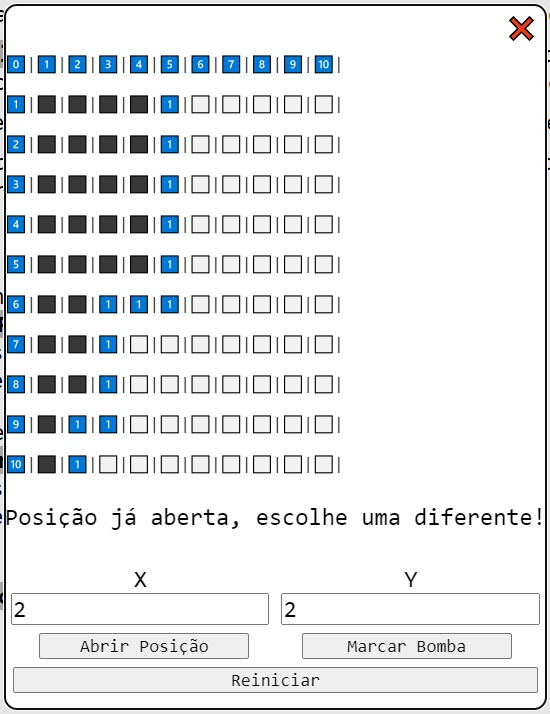
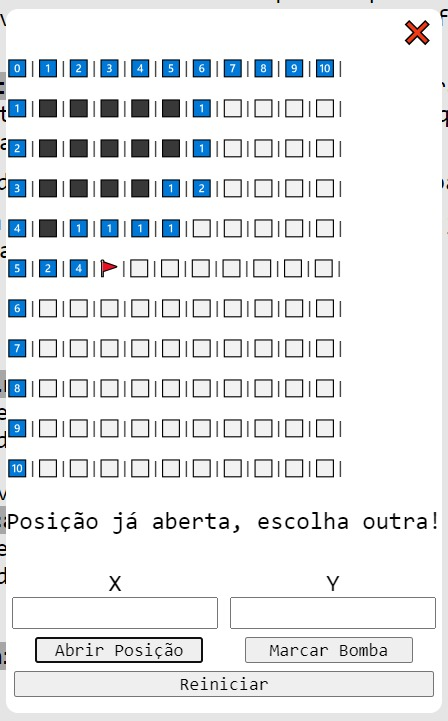
refactor(v1, v2): Centraliza mensagens do Javascript e melhora texto do HTML

Changed region(s): [[0.0, 0.0, 1.0, 1.0]]

diff --git a/v1/src/javascripts/jogo/core.js b/v1/src/javascripts/jogo/core.js
@@ -11,11 +11,11 @@ function abrirPosicao({ posicao, exibirLog, exibirCampo }) {
   };
 
   if (!ehPosicaoNoCampo(posicao)) {
-    return exibirLog('Posições escolhidas não estão no campo!');
+    return exibirLog(MENSAGENS.posicaoForaDoCampo);
   }
 
   if (ehPosicaoAberta(posicao)) {
-    return exibirLog('Posição já aberta, escolhe uma diferente!');
+    return exibirLog(MENSAGENS.posicaoJaAberta);
   }
 
   if (ehPosicaoDeBomba(posicao)) {
@@ -25,7 +25,7 @@ function abrirPosicao({ posicao, exibirLog, exibirCampo }) {
 
     exibirCampo(desenharCampo());
 
-    return exibirLog('Você perdeu! 💥');
+    return exibirLog(MENSAGENS.derrota);
   }
 
   posicoesAbertas.push(posicao);
@@ -81,15 +81,15 @@ function marcarComBandeira({ posicao, exibirLog, exibirCampo }) {
   };
 
   if (!ehPosicaoNoCampo(posicao)) {
-    return exibirLog('Posições escolhidas não estão no campo!');
+    return exibirLog(MENSAGENS.posicaoForaDoCampo);
   }
 
   if (ehPosicaoAberta(posicao)) {
-    return exibirLog('Posição já aberta, escolhe uma diferente!');
+    return exibirLog(MENSAGENS.posicaoJaAberta);
   }
 
   if (ehPosicaoDeBandeira(posicao)) {
-    return exibirLog('Posição já marcada, escolhe uma diferente!');
+    return exibirLog(MENSAGENS.posicaoJaMarcada);
   }
 
   posicoesBandeiras.push(posicao);
@@ -100,7 +100,7 @@ function marcarComBandeira({ posicao, exibirLog, exibirCampo }) {
 
 function verificarVitoria({ exibirLog }) {
   if (ehJogoFinalizado) {
-    return exibirLog(`Você ${ehVitoria ? 'venceu! 😄' : 'perdeu! 💥'}`)
+    return exibirLog(ehVitoria ? MENSAGENS.vitoria : MENSAGENS.derrota)
   }
 
   let totalDePosicoes = SETTINGS.campo.tamanhoX * SETTINGS.campo.tamanhoY;
@@ -112,7 +112,7 @@ function verificarVitoria({ exibirLog }) {
     ehJogoFinalizado = true;
     ehVitoria = true;
 
-    exibirLog('Você venceu! 😄');
+    exibirLog(MENSAGENS.vitoria);
   }
 }
 

diff --git a/v1/index.html b/v1/index.html
@@ -17,7 +17,7 @@
 
     <p>Este jogo foi desenvolvido em Javascript e é possível jogar com a ferramenta de desenvolvimento do navegador ou via interface com um emulador do console.</p>
 
-    <p>Aperte <code>F12</code> ou <code>Ctrl + Shift + I</code> para abri a ferramenta de desenvolvimento. Caso os atalhos não funcionem, verifique qual o correto para sua máquina e navegador.</p>
+    <p>Aperte <code>F12</code> ou <code>Ctrl + Shift + I</code> para abrir a ferramenta de desenvolvimento. Caso os atalhos não funcionem, verifique qual o correto para sua máquina e navegador.</p>
 
     <p>Com a ferramenta de desenvolimento aberta, vá na aba "Console".</p>
 
@@ -98,6 +98,7 @@
   </dialog>
 
   <script src="src/javascripts/settings.js"></script>
+  <script src="src/javascripts/mensagens.js"></script>
   <script src="src/javascripts/jogo/core.js"></script>
   <script src="src/javascripts/jogo/console.js"></script>
   <script src="src/javascripts/jogo/emulador.js"></script>

diff --git a/v2/index.html b/v2/index.html
@@ -13,9 +13,9 @@
 <body>
   <h1>Campo Minado</h1>
 
-  <p>Este jogo foi desenvolvido em Javascript utilizando a biblioteca <a href="https://stimulus.hotwired.dev/" target="_blank">stimulus</a>.</p>
+  <p>Este jogo foi desenvolvido em Javascript utilizando a biblioteca <a href="https://stimulus.hotwired.dev/" target="_blank">Stimulus</a>.</p>
 
-  <p>Para abrir uma posição basta clicar com o botão esquerdo do mouse, e para marcar com a bandeira basta clicar com o botão direito. Se estiver jogando em um dispositivo móvel, sinto muito mas não é possível marcar com a bandeira, boa sorte 🙃.</p>
+  <p>Para abrir uma posição basta clicar com o botão esquerdo do mouse, e para marcar com a bandeira (🚩) basta clicar com o botão direito. Se estiver jogando em um dispositivo móvel, click e segure na posição por um instante.</p>
 
   <main data-controller="campo">
     <div id="campo" data-campo-target="campo">

diff --git a/v2/src/javascript/jogo.js b/v2/src/javascript/jogo.js
@@ -1,3 +1,4 @@
+import { MENSAGENS } from './mensagens.js';
 import { SETTINGS } from './settings.js';
 
 class Jogo {
@@ -38,7 +39,7 @@ class Jogo {
       this.ehVitoria = false;
       this.posicoesAbertas.push(posicao);
 
-      return exibirLog('Você perdeu! 💥');
+      return exibirLog(MENSAGENS.derrota);
     }
 
     this.posicoesAbertas.push(posicao);
@@ -54,7 +55,7 @@ class Jogo {
 
   verificarVitoria({ exibirLog }) {
     if (this.ehJogoFinalizado) {
-      return exibirLog(`Você ${this.ehVitoria ? 'venceu! 😄' : 'perdeu! 💥'}`)
+      return exibirLog(this.ehVitoria ? MENSAGENS.vitoria : MENSAGENS.derrota)
     }
 
     let totalDePosicoes = SETTINGS.campo.linhas * SETTINGS.campo.colunas;
@@ -66,7 +67,7 @@ class Jogo {
       this.ehJogoFinalizado = true;
       this.ehVitoria = true;
 
-      exibirLog('Você venceu! 😄');
+      exibirLog(MENSAGENS.vitoria);
     }
   }
 

diff --git a/v1/src/javascripts/mensagens.js b/v1/src/javascripts/mensagens.js
@@ -1,0 +1,7 @@
+const MENSAGENS = Object.freeze({
+  derrota: 'Você perdeu! 💥',
+  posicaoForaDoCampo: 'Posição escolhida não estão no campo!',
+  posicaoJaAberta: 'Posição já aberta, escolha outra!',
+  posicaoJaMarcada: 'Posição já marcada, escolha outra!',
+  vitoria: 'Você venceu! 😄',
+});

diff --git a/v2/src/javascript/mensagens.js b/v2/src/javascript/mensagens.js
@@ -1,0 +1,4 @@
+export const MENSAGENS = Object.freeze({
+  derrota: 'Você perdeu! 💥',
+  vitoria: 'Você venceu! 😄',
+});
